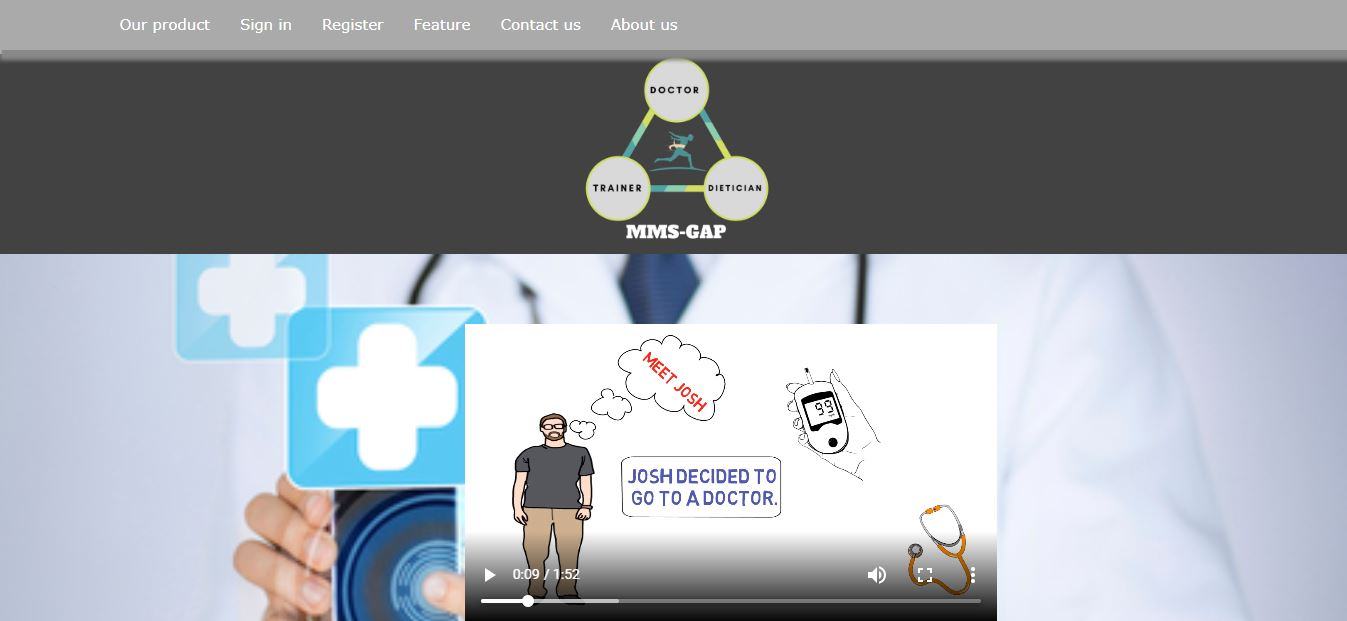
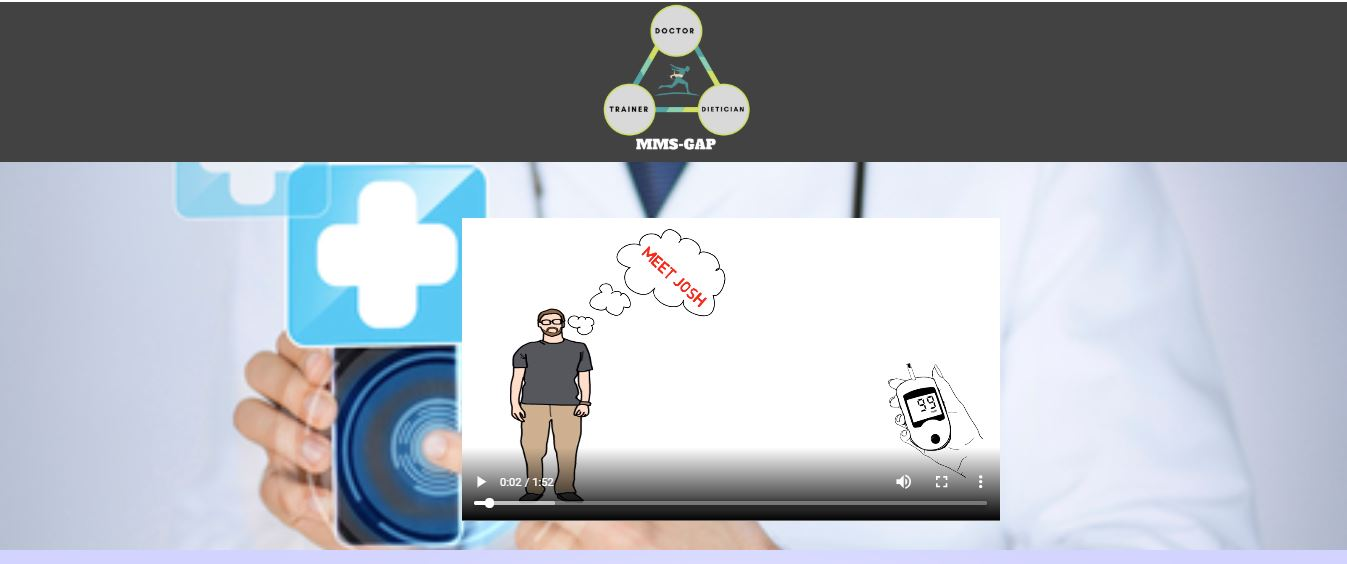
finished the projects

diff --git a/src/consts/projects.js b/src/consts/projects.js
@@ -1,5 +1,10 @@
 import rickI from '../images/rick-and-com.JPG'
 import gold from '../images/gold-rush.JPG'
+import mmsI from '../images/mms-gap.JPG'
+import crmI from '../images/crm.JPG'
+import quizI from '../images/quiz.JPG'
+import doggiesI from '../images/doggies.JPG'
+import frogI from '../images/frog.JPG'
 
 const rickAndMorty = {
     title : "Rick And Morty Game",
@@ -14,11 +19,55 @@ const GoldRus = {
     title : "GoldRus Game",
     text : "The nostalgic game 'Gold-Rush' for multiple players",
     gitHub : "https://github.com/tomeraitz/GoldRush-game",
-    url : "https://gold-rush-multi.herokuapp.com//",
+    url : "https://gold-rush-multi.herokuapp.com/",
     img : gold,
     labels : ['Node.js' , 'vanilla js', 'Jquery','handlebar', 'Socket.io', 'Express']
 }
 
-const projects = [rickAndMorty, GoldRus]
+const MMS = {
+    title : "MMS-GAP",
+    text : "MMS-GAP is an information system for integrating the patient progress information between patients, doctors, trainers, and nutritionists",
+    gitHub : "https://github.com/mms-gap/code",
+    url : "http://avivbr.mtacloud.co.il/index",
+    img : mmsI,
+    labels : ['PHP' , 'Gmail API', 'Jquery','vanilla js', 'SQL', 'Bootstrap']
+}
+
+const crm = {
+    title : "CRM System",
+    text : "This project simulates a real CRM system",
+    gitHub : "https://github.com/tomeraitz/React-FullStack-CRM-System",
+    url : "https://crm-tomer.herokuapp.com",
+    img : crmI,
+    labels : ['Node.js' , 'React.js', 'MongoDB', 'Express']
+}
+
+const quiz = {
+    title : "Quiz Your Self",
+    text : "This Application quiz that checks what professions that fit you according to your answers",
+    gitHub : "https://github.com/tomeraitz/PHP-Quiz-Your-self",
+    url : "http://avivbr.mtacloud.co.il/QuizYourSelf/register.php",
+    img : quizI,
+    labels : ['PHP' , 'Google API','vanilla js', 'SQL', 'Bootstrap']
+}
+
+const doggies = {
+    title : "Doogies",
+    text : "Dog parks based social network",
+    gitHub : "https://github.com/tomeraitz/doggies",
+    url : "https://doggies-app.herokuapp.com",
+    img : doggiesI,
+    labels : ['Node.js' , 'vanilla js', 'Jquery','handlebar', 'MongoDB', 'Express' , 'StreetMap']
+}
+
+const frog = {
+    title : "Catch a Frog Game",
+    text : "'catch A frog' is a game whose entire logic is based on a coordinate system, the game have a countdown and levels engine",
+    gitHub : "https://github.com/tomeraitz/catchAfrog-game",
+    url : "https://tomeraitz.github.io/catchAfrog-game/index.html",
+    img : frogI,
+    labels : ['vanilla js', 'Jquery','handlebar']
+}
+const projects = [rickAndMorty, GoldRus , MMS, crm , quiz , doggies, frog]
 
 export default projects

diff --git a/src/components/Contact.js b/src/components/Contact.js
@@ -1,0 +1,53 @@
+import React, { Component } from 'react';
+import axios from "axios";
+import '../styles/Contact.css';
+import fromId from '../consts/fromID'
+
+class Contact extends Component {
+    constructor(props){
+        super(props);
+        this.state = {name: "", surname: "", email: "", message: ""};
+      }
+    
+      handleForm = e => {
+        axios.post(
+          `https://formcarry.com/s/${fromId}`, 
+          this.state, 
+          {headers: {"Accept": "application/json"}}
+          )
+          .then(function (response) {
+            console.log(response);
+          })
+          .catch(function (error) {
+            console.log(error);
+          });
+    
+        e.preventDefault();
+      }
+    
+      handleFields = e => this.setState({ [e.target.name]: e.target.value });
+    
+      render() {
+        return (
+            <div class="Contact">
+                <form onSubmit={this.handleForm}>
+                    <label htmlFor="name">Name</label>
+                    <input type="text" id="name" name="name" onChange={this.handleFields} />
+            
+                    <label htmlFor="surname">Surname</label>
+                    <input type="text" id="surname" name="surname" onChange={this.handleFields} />
+            
+                    <label htmlFor="email">Email</label>
+                    <input type="email" id="email" name="email" onChange={this.handleFields} />
+            
+                    <label htmlFor="message">Your Message</label>
+                    <textarea name="message" id="message" onChange={this.handleFields}></textarea>
+            
+                    <button type="submit">Send</button>
+                </form>
+            </div>
+        );
+      }
+    }
+
+export default Contact;

diff --git a/src/App.js b/src/App.js
@@ -4,6 +4,7 @@ import NavBar from './components/NavBar';
 import Home from './components/Home';
 import Projects from './components/Projects';
 import { observer } from 'mobx-react'
+import Contact from './components/Contact';
 
 @observer
 class App extends Component {
@@ -14,6 +15,7 @@ class App extends Component {
           <div className="main">
             <Home id="Home" />
             <Projects id="Projects" />
+            <Contact /> 
           </div>
       </div>
     );

diff --git a/src/styles/main.css b/src/styles/main.css
@@ -1,7 +1,6 @@
 .main{
     display: grid;
     grid-template-rows: repeat(auto-fill, minmax(36em, 2fr));
-    height: 100vh;
   }
   
   .Home{
@@ -9,7 +8,7 @@
     display: grid;
     color: white;
     grid-template-rows: 13em 4em 14em 3em;
-    height: 115%;
+    height: 100vh;
     background-position: center;
     background-repeat: no-repeat;
     background-size: cover;

diff --git a/src/styles/projects.css b/src/styles/projects.css
@@ -2,14 +2,14 @@
     display: grid;
     grid-template-rows: repeat(2 , 1fr);
     grid-gap: 20px;
-    margin-top: 120px;
+    margin-top: 50px;
   }
   
   .Box{
     display: grid;
     height: 3em;
     height: 100%;
-    grid-template-columns: repeat(auto-fill, minmax(23em, 2fr));
+    grid-template-columns: repeat(auto-fill, minmax(20em, 2fr));
     
   }
   

diff --git a/src/components/NavBar.js b/src/components/NavBar.js
@@ -9,7 +9,7 @@ class NavBar extends Component {
     listenScrollEvent = () => this.props.GenralStore.changeColor()
     handelClick = e => {
       if(e.target.id === 'Projects'){
-        window.scrollTo(0, 600);
+        window.scrollTo(0, window.screen.availHeight/1.05);
       }
       else if(e.target.id === 'Home'){
         window.scrollTo(0, 0);

diff --git a/src/styles/Contact.css b/src/styles/Contact.css
@@ -1,0 +1,4 @@
+.Contact{
+    background-color: #484945;
+    height: 200px;
+}
